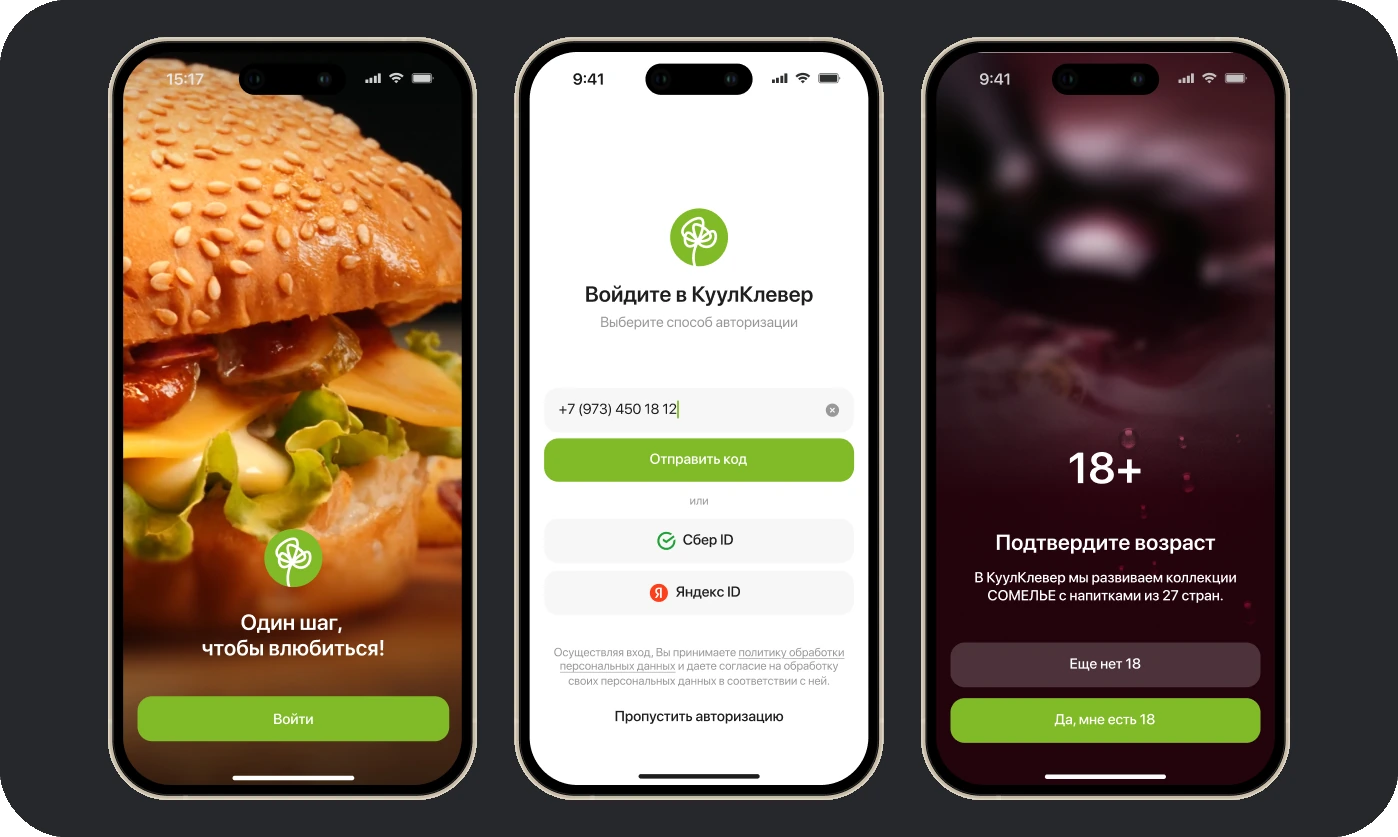
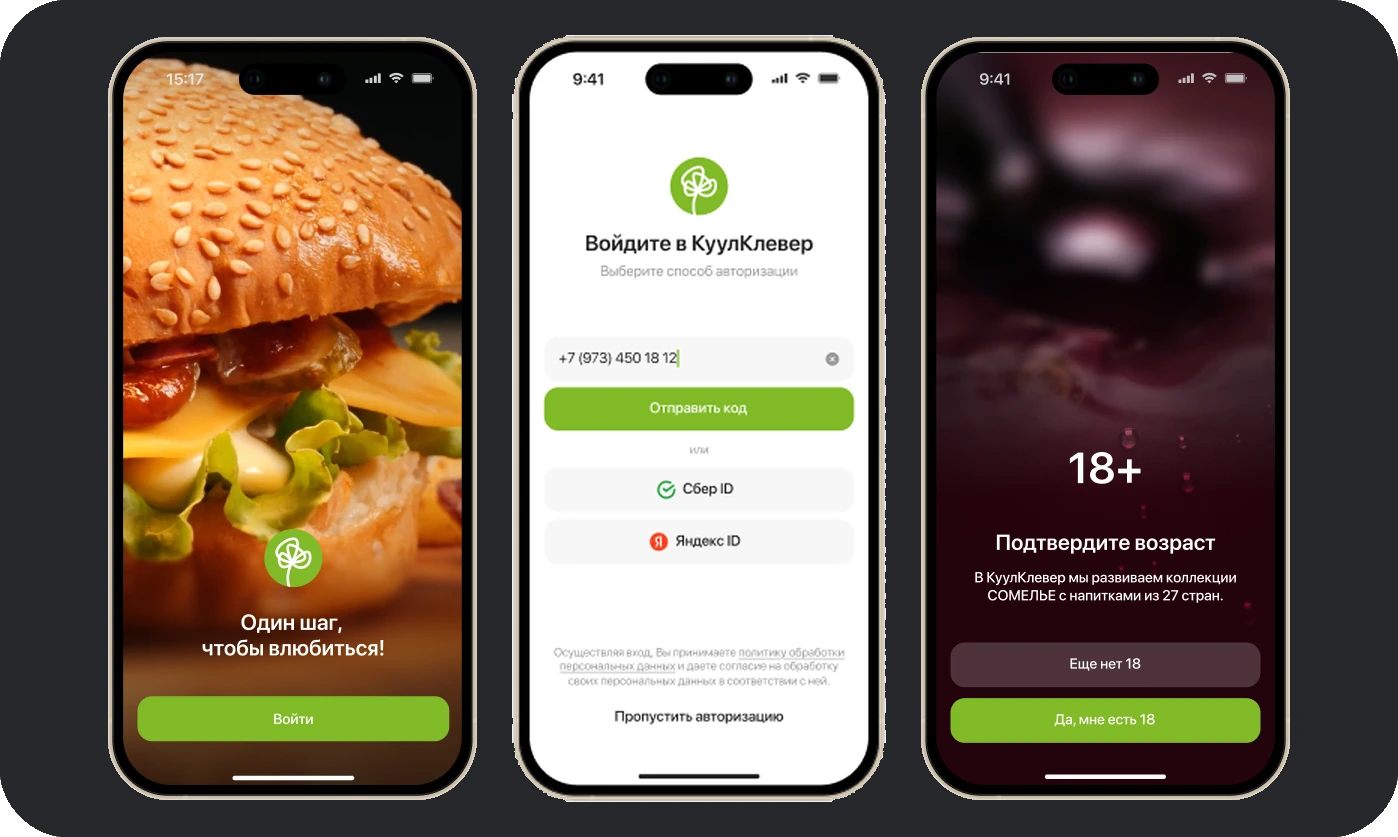
Онбординг: обновлён экран входа на обложке (заглушка)
Claude-Session: https://claude.ai/code/session_01BbzCvaPYQ9pFtYCqfnGTSS

diff --git a/index.html b/index.html
@@ -1398,7 +1398,7 @@ picture{display:contents}
         <p class="case__lead">Как мы увеличили число пользователей, проходящих онбординг, а заодно повысили конверсию на пуши и обновили раздел уведомлений.</p>
       </div>
     </div>
-    <figure class="case__fig"><div class="vshot"><picture><source srcset="cases/onboarding/hero-dark.webp?v=4" media="(prefers-color-scheme: dark)"><img src="cases/onboarding/hero.webp?v=4" width="1398" height="837" alt="Три экрана: приветствие «Один шаг, чтобы влюбиться!», вход в КуулКлевер по номеру, Сбер ID или Яндекс ID и экран подтверждения возраста 18+"></picture><div class="vs vs--welcome" aria-hidden="true"><video class="vs__bg" muted loop playsinline preload="none" poster="cases/onboarding/video/welcome.jpg" data-src="cases/onboarding/video/welcome.mp4"></video><span class="vs__top"></span><span class="vs__bottom"></span><span class="vs__logo"></span><p class="vs__t vs__title">Один шаг,<br>чтобы влюбиться!</p><span class="vs__btn" style="top:calc(429.5*var(--u))">Войти</span><span class="vs__status"><span class="vs__time">9:41</span><svg class="vs__icons" viewBox="0 0 38 7.4" fill="#fff"><rect x="0" y="5" width="1.6" height="2.4" rx=".4"/><rect x="2.5" y="3.6" width="1.6" height="3.8" rx=".4"/><rect x="5" y="2" width="1.6" height="5.4" rx=".4"/><rect x="7.5" y=".4" width="1.6" height="7" rx=".4"/><path d="M16.2 1.5a6.4 6.4 0 0 1 4.5 1.8l.9-.9a7.7 7.7 0 0 0-10.8 0l.9.9a6.4 6.4 0 0 1 4.5-1.8Zm0 2.4a4 4 0 0 1 2.8 1.1l.9-.9a5.3 5.3 0 0 0-7.4 0l.9.9a4 4 0 0 1 2.8-1.1Zm0 2.4c.4 0 .8.2 1.1.5l-1.1 1.1-1.1-1.1c.3-.3.7-.5 1.1-.5Z"/><rect x="24.6" y=".5" width="11.2" height="6.4" rx="1.8" fill="none" stroke="#fff" stroke-opacity=".45" stroke-width=".8"/><rect x="25.8" y="1.7" width="8.8" height="4" rx="1"/><path d="M36.6 2.6v2.2c.6-.2 1-.6 1-1.1s-.4-.9-1-1.1Z" fill-opacity=".45"/></svg></span><span class="vs__island"></span><span class="vs__home"></span></div><div class="vs vs--gate" aria-hidden="true"><video class="vs__sq" muted loop playsinline preload="none" poster="cases/onboarding/video/wine.jpg" data-src="cases/onboarding/video/wine.mp4"></video><span class="vs__fade"></span><span class="vs__shade"></span><p class="vs__t vs__age">18+</p><p class="vs__t vs__h">Подтвердите возраст</p><p class="vs__t vs__sub">В&nbsp;КуулКлевер мы развиваем коллекции СОМЕЛЬЕ с&nbsp;напитками из&nbsp;27&nbsp;стран.</p><span class="vs__btn vs__btn--ghost" style="top:calc(391.4*var(--u));left:calc(9.7*var(--u));width:calc(205.4*var(--u))">Еще нет 18</span><span class="vs__btn" style="top:calc(428.5*var(--u));left:calc(9.7*var(--u));width:calc(205.4*var(--u))">Да, мне есть 18</span><span class="vs__status"><span class="vs__time">9:41</span><svg class="vs__icons" viewBox="0 0 38 7.4" fill="#fff"><rect x="0" y="5" width="1.6" height="2.4" rx=".4"/><rect x="2.5" y="3.6" width="1.6" height="3.8" rx=".4"/><rect x="5" y="2" width="1.6" height="5.4" rx=".4"/><rect x="7.5" y=".4" width="1.6" height="7" rx=".4"/><path d="M16.2 1.5a6.4 6.4 0 0 1 4.5 1.8l.9-.9a7.7 7.7 0 0 0-10.8 0l.9.9a6.4 6.4 0 0 1 4.5-1.8Zm0 2.4a4 4 0 0 1 2.8 1.1l.9-.9a5.3 5.3 0 0 0-7.4 0l.9.9a4 4 0 0 1 2.8-1.1Zm0 2.4c.4 0 .8.2 1.1.5l-1.1 1.1-1.1-1.1c.3-.3.7-.5 1.1-.5Z"/><rect x="24.6" y=".5" width="11.2" height="6.4" rx="1.8" fill="none" stroke="#fff" stroke-opacity=".45" stroke-width=".8"/><rect x="25.8" y="1.7" width="8.8" height="4" rx="1"/><path d="M36.6 2.6v2.2c.6-.2 1-.6 1-1.1s-.4-.9-1-1.1Z" fill-opacity=".45"/></svg></span><span class="vs__island"></span><span class="vs__home"></span></div></div><figcaption>Основные решения</figcaption></figure>
+    <figure class="case__fig"><div class="vshot"><picture><source srcset="cases/onboarding/hero-dark.webp?v=5" media="(prefers-color-scheme: dark)"><img src="cases/onboarding/hero.webp?v=5" width="1398" height="837" alt="Три экрана: приветствие «Один шаг, чтобы влюбиться!», вход в КуулКлевер по номеру, Сбер ID или Яндекс ID и экран подтверждения возраста 18+"></picture><div class="vs vs--welcome" aria-hidden="true"><video class="vs__bg" muted loop playsinline preload="none" poster="cases/onboarding/video/welcome.jpg" data-src="cases/onboarding/video/welcome.mp4"></video><span class="vs__top"></span><span class="vs__bottom"></span><span class="vs__logo"></span><p class="vs__t vs__title">Один шаг,<br>чтобы влюбиться!</p><span class="vs__btn" style="top:calc(429.5*var(--u))">Войти</span><span class="vs__status"><span class="vs__time">9:41</span><svg class="vs__icons" viewBox="0 0 38 7.4" fill="#fff"><rect x="0" y="5" width="1.6" height="2.4" rx=".4"/><rect x="2.5" y="3.6" width="1.6" height="3.8" rx=".4"/><rect x="5" y="2" width="1.6" height="5.4" rx=".4"/><rect x="7.5" y=".4" width="1.6" height="7" rx=".4"/><path d="M16.2 1.5a6.4 6.4 0 0 1 4.5 1.8l.9-.9a7.7 7.7 0 0 0-10.8 0l.9.9a6.4 6.4 0 0 1 4.5-1.8Zm0 2.4a4 4 0 0 1 2.8 1.1l.9-.9a5.3 5.3 0 0 0-7.4 0l.9.9a4 4 0 0 1 2.8-1.1Zm0 2.4c.4 0 .8.2 1.1.5l-1.1 1.1-1.1-1.1c.3-.3.7-.5 1.1-.5Z"/><rect x="24.6" y=".5" width="11.2" height="6.4" rx="1.8" fill="none" stroke="#fff" stroke-opacity=".45" stroke-width=".8"/><rect x="25.8" y="1.7" width="8.8" height="4" rx="1"/><path d="M36.6 2.6v2.2c.6-.2 1-.6 1-1.1s-.4-.9-1-1.1Z" fill-opacity=".45"/></svg></span><span class="vs__island"></span><span class="vs__home"></span></div><div class="vs vs--gate" aria-hidden="true"><video class="vs__sq" muted loop playsinline preload="none" poster="cases/onboarding/video/wine.jpg" data-src="cases/onboarding/video/wine.mp4"></video><span class="vs__fade"></span><span class="vs__shade"></span><p class="vs__t vs__age">18+</p><p class="vs__t vs__h">Подтвердите возраст</p><p class="vs__t vs__sub">В&nbsp;КуулКлевер мы развиваем коллекции СОМЕЛЬЕ с&nbsp;напитками из&nbsp;27&nbsp;стран.</p><span class="vs__btn vs__btn--ghost" style="top:calc(391.4*var(--u));left:calc(9.7*var(--u));width:calc(205.4*var(--u))">Еще нет 18</span><span class="vs__btn" style="top:calc(428.5*var(--u));left:calc(9.7*var(--u));width:calc(205.4*var(--u))">Да, мне есть 18</span><span class="vs__status"><span class="vs__time">9:41</span><svg class="vs__icons" viewBox="0 0 38 7.4" fill="#fff"><rect x="0" y="5" width="1.6" height="2.4" rx=".4"/><rect x="2.5" y="3.6" width="1.6" height="3.8" rx=".4"/><rect x="5" y="2" width="1.6" height="5.4" rx=".4"/><rect x="7.5" y=".4" width="1.6" height="7" rx=".4"/><path d="M16.2 1.5a6.4 6.4 0 0 1 4.5 1.8l.9-.9a7.7 7.7 0 0 0-10.8 0l.9.9a6.4 6.4 0 0 1 4.5-1.8Zm0 2.4a4 4 0 0 1 2.8 1.1l.9-.9a5.3 5.3 0 0 0-7.4 0l.9.9a4 4 0 0 1 2.8-1.1Zm0 2.4c.4 0 .8.2 1.1.5l-1.1 1.1-1.1-1.1c.3-.3.7-.5 1.1-.5Z"/><rect x="24.6" y=".5" width="11.2" height="6.4" rx="1.8" fill="none" stroke="#fff" stroke-opacity=".45" stroke-width=".8"/><rect x="25.8" y="1.7" width="8.8" height="4" rx="1"/><path d="M36.6 2.6v2.2c.6-.2 1-.6 1-1.1s-.4-.9-1-1.1Z" fill-opacity=".45"/></svg></span><span class="vs__island"></span><span class="vs__home"></span></div></div><figcaption>Основные решения</figcaption></figure>
   </div>
 
   <div class="case__sec" id="ob-context">
